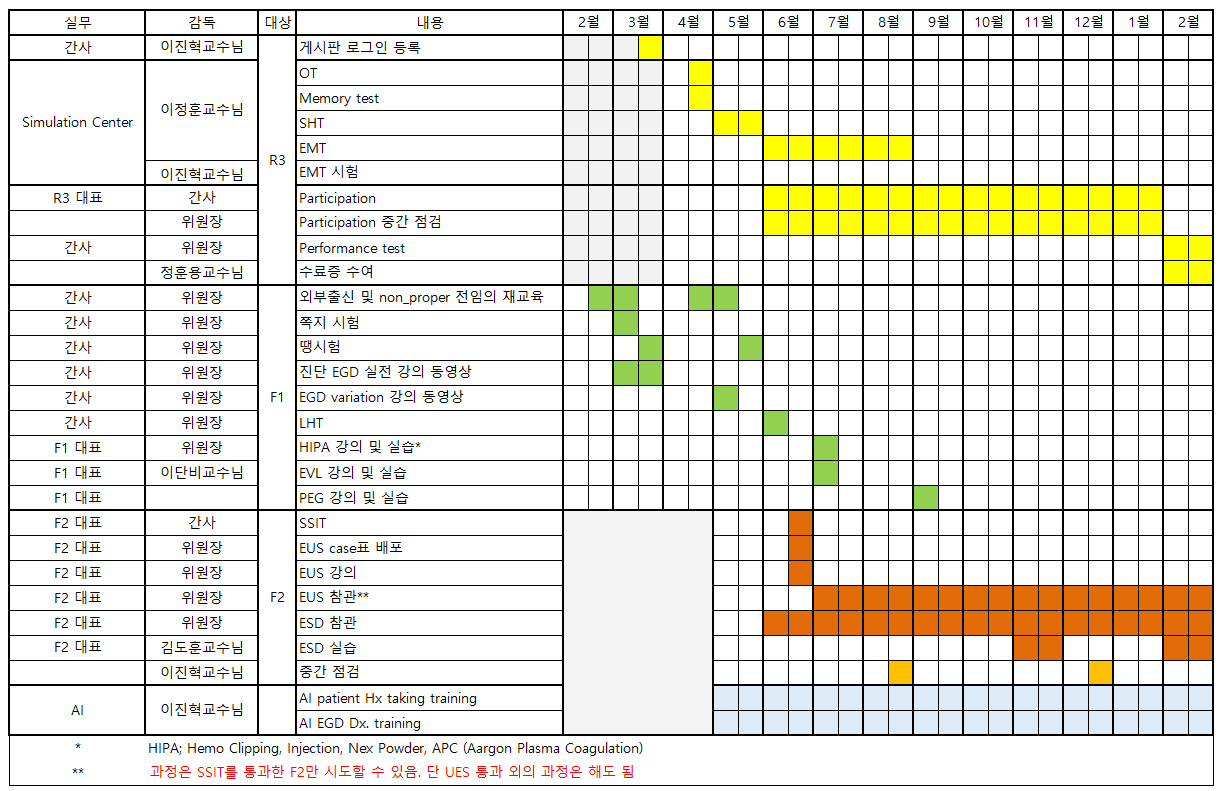
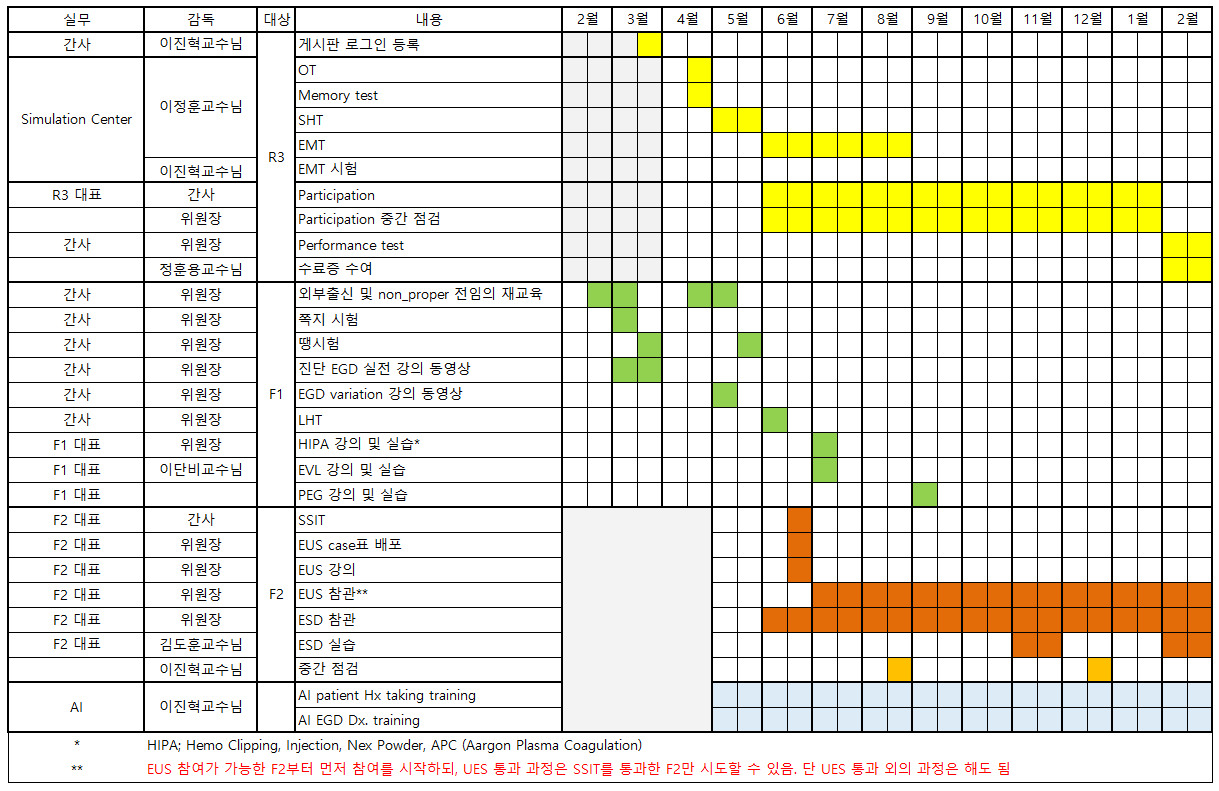
ㅜ

Changed region(s): [[0.0, 0.0, 0.9975, 1.0]]

diff --git a/Login.py b/Login.py
@@ -43,4 +43,4 @@ if st.button("Login"):
 
 st.divider()
 st.write("2024년 1월 17일 코드 수정")
-st.write("2024년 2월 1일 게시물 내용 수정")
+st.write("2024년 2월 2일 게시물 내용 수정 (홈페이지 내용 수정은 수시로 있으므로 여기에 반영하지 않습니다.): 교육 일정 엑셀 파일 내용 중 '** 문장' 일부 안보이는 오류 수정")
